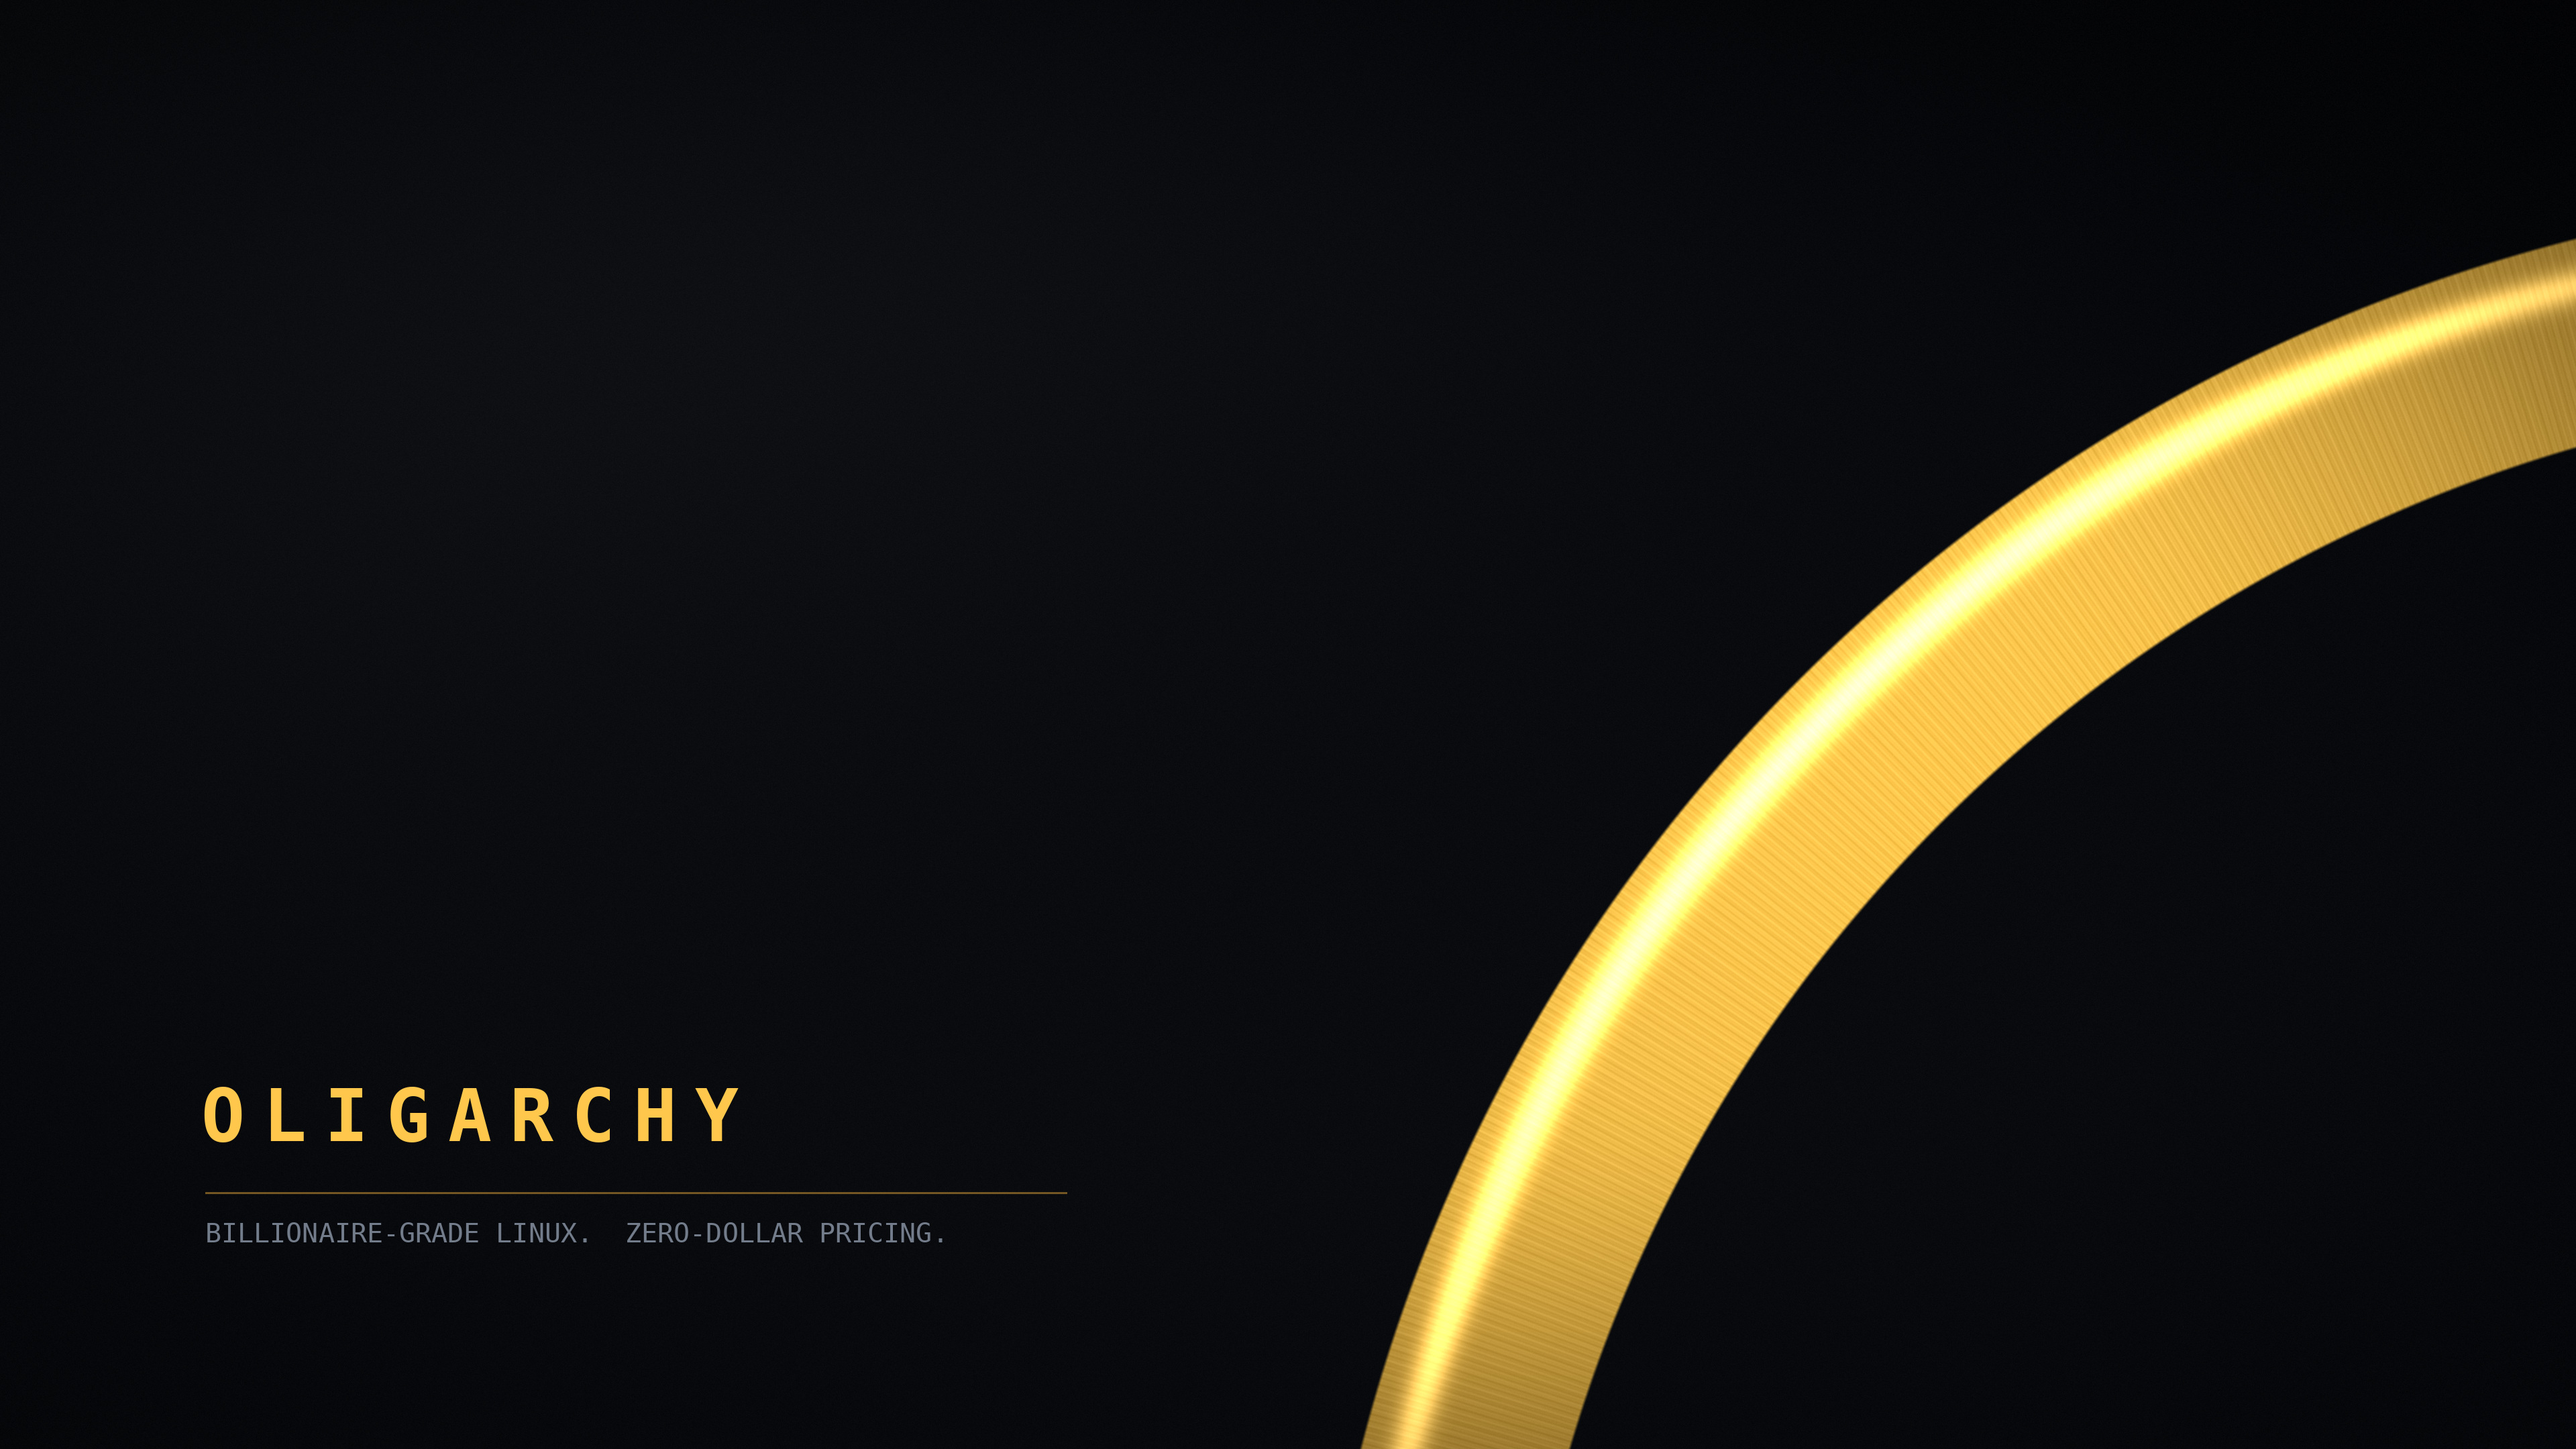
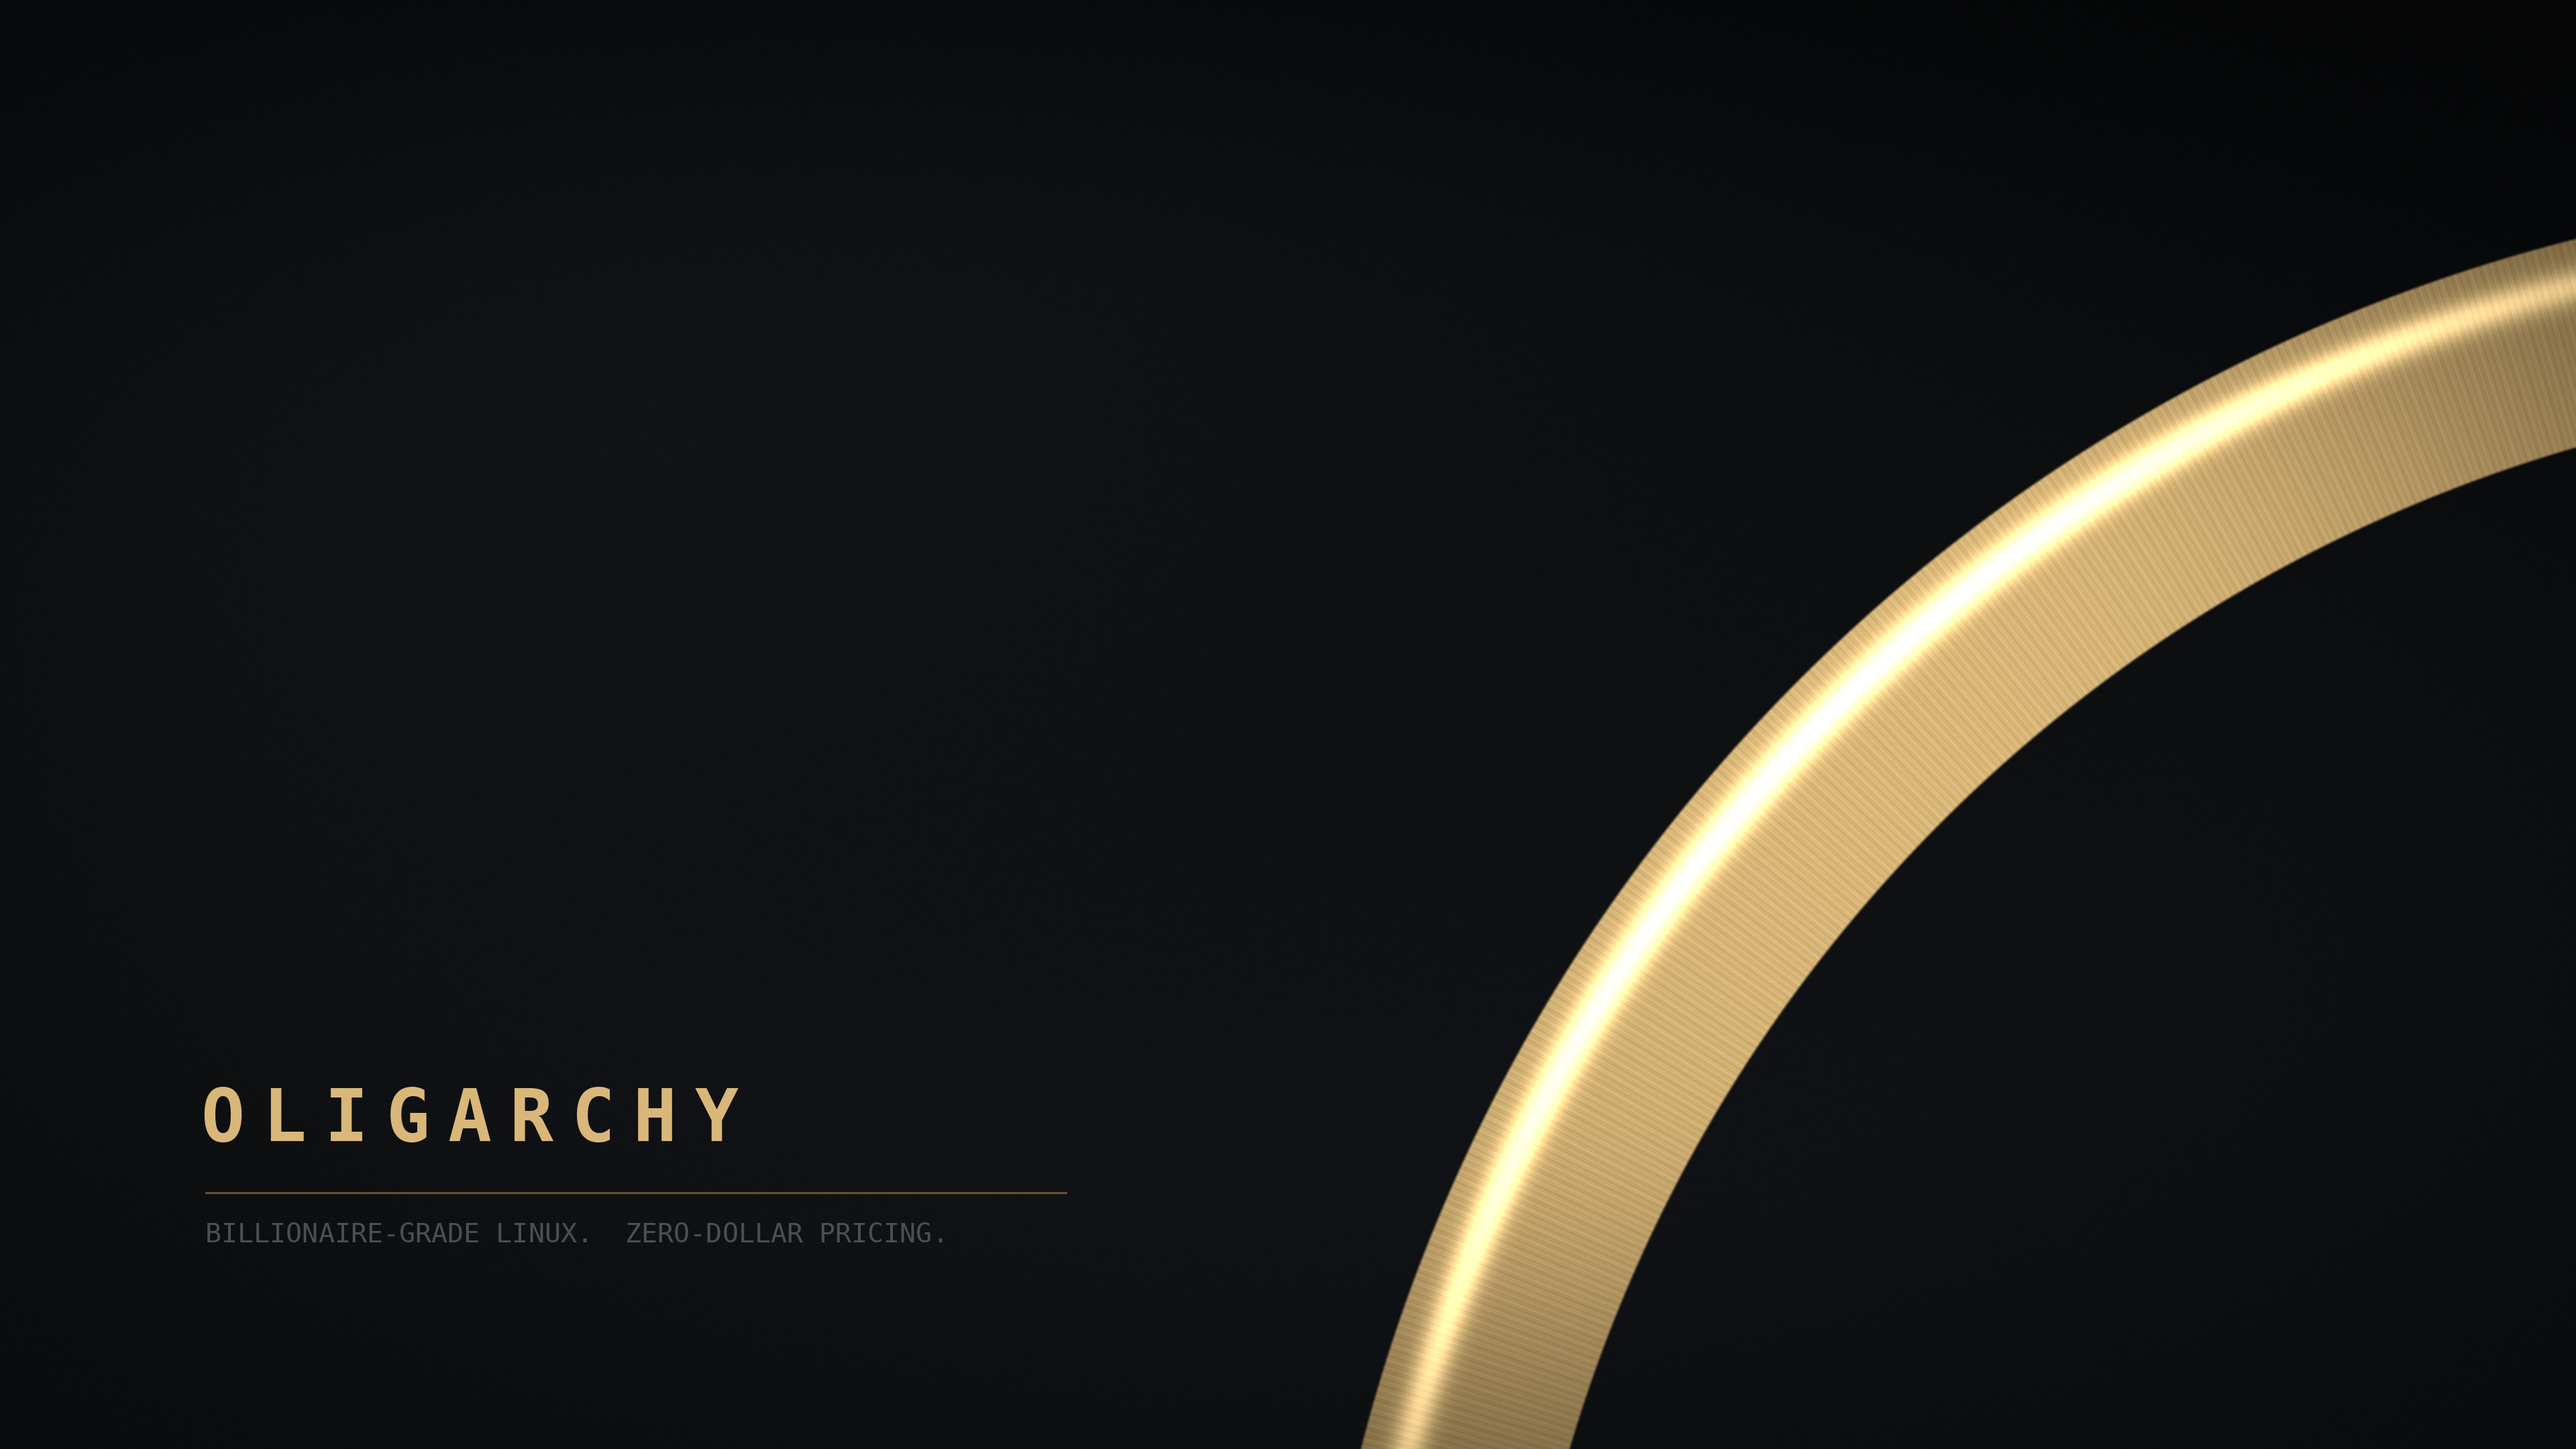
Restore the original palette and scope the terminal lift
Revert the accent, background ramp, and foregrounds to the champagne-on-
charcoal values. Raising the whole system alongside the terminal broke the
coherence the theme is built on — bright yellow chrome and cool terminal
greens stopped reading as one object.

Keep only what the terminal actually needed: named colours lifted to clear
contrast against the canvas while staying warm-biased, and color8 raised so
comments are legible without lightening the shell's dividers.

diff --git a/README.md b/README.md
@@ -57,23 +57,23 @@ Style → Unlock.
 
 | | |
 | --- | --- |
-| background | `#0a0c10` |
-| dark background | `#080a0d` |
-| darker background | `#050609` |
-| lighter background | `#14171c` |
-| foreground | `#e4e7ec` |
-| accent | `#ffc84d` |
-| selection | `#3a2e17` |
-| muted | `#737c8a` |
+| background | `#121417` |
+| dark background | `#0d0f11` |
+| darker background | `#08090a` |
+| lighter background | `#1a1d21` |
+| foreground | `#c9ccd1` |
+| accent | `#d9b779` |
+| selection | `#2a2419` |
+| muted | `#4a4f57` |
 
 | | normal | bright |
 | --- | --- | --- |
-| red | `#ff5f4d` | `#ff8574` |
-| green | `#c3e05c` | `#d9f086` |
-| yellow | `#ffc84d` | `#ffdb7a` |
-| blue | `#5ab9ff` | `#8ed0ff` |
-| magenta | `#ff8fd0` | `#ffb3e0` |
-| cyan | `#3fe0cc` | `#6ff5e4` |
+| red | `#d1603f` | `#e07a58` |
+| green | `#9fb56a` | `#b8cc82` |
+| yellow | `#e8c274` | `#f2d590` |
+| blue | `#7d9ec4` | `#96b4d6` |
+| magenta | `#c08fa8` | `#d3a6bb` |
+| cyan | `#7fbdb2` | `#96cfc6` |
 
 Every gradient in the theme — window borders, the bar's edge, focus rings,
 the arc in the first wallpaper — is struck at 135°, lit from the upper left.
